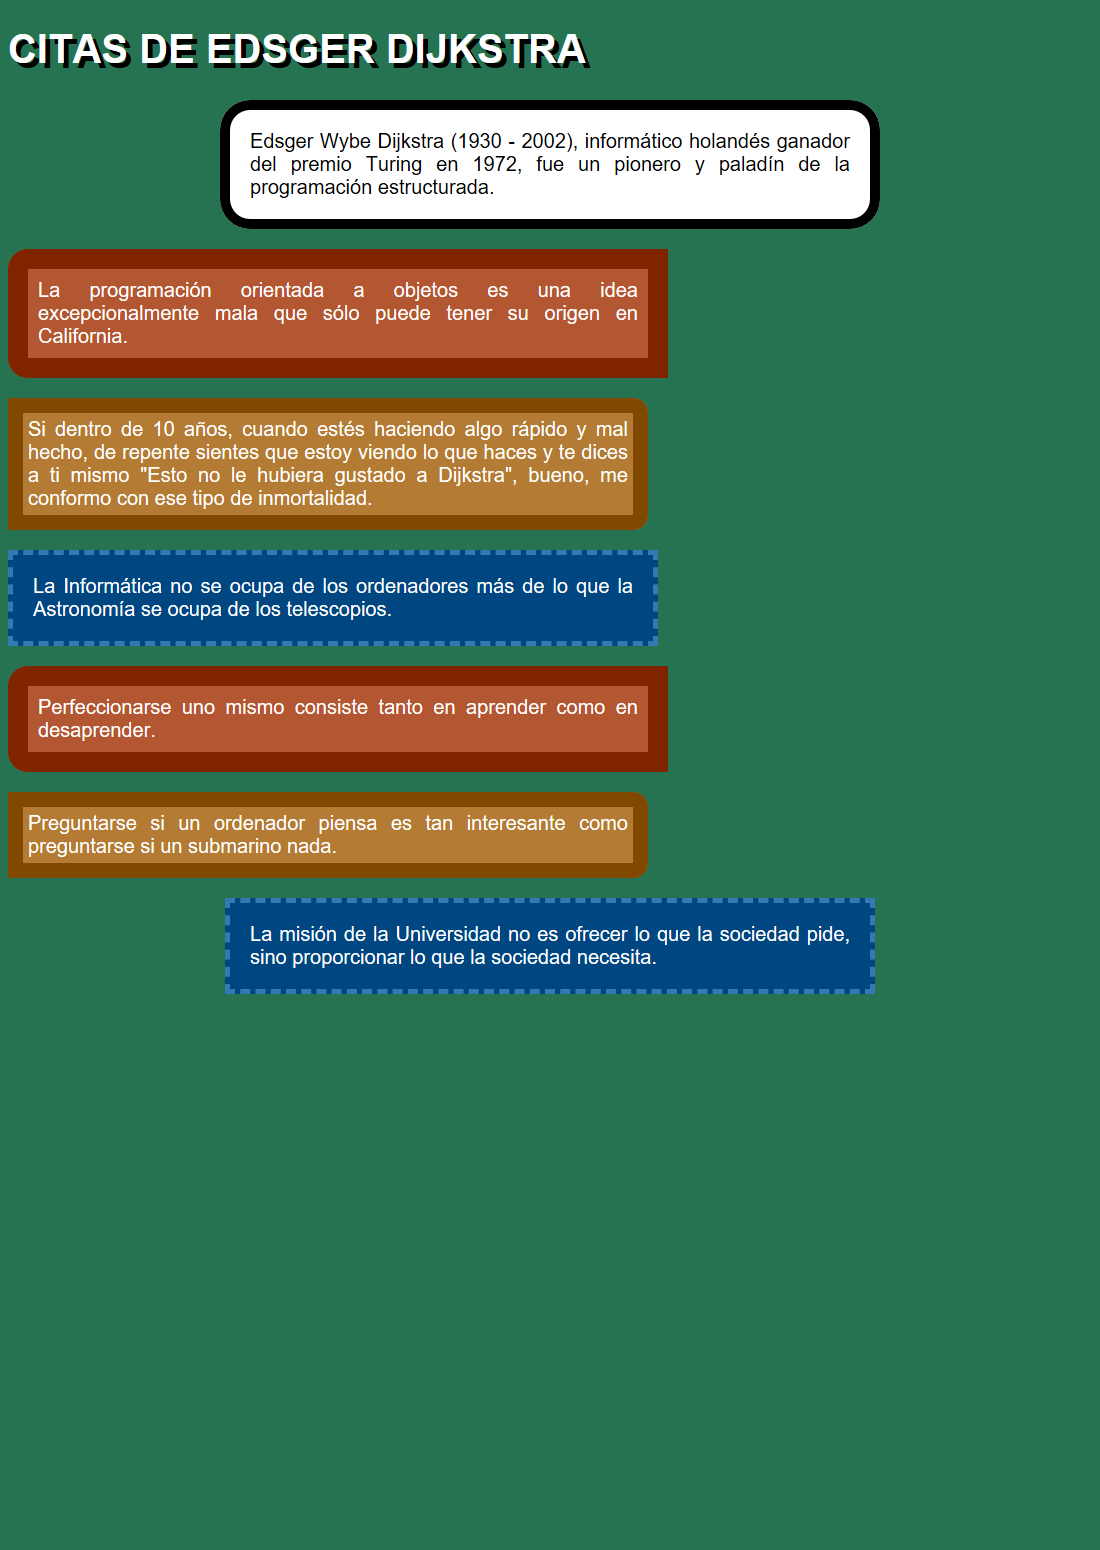
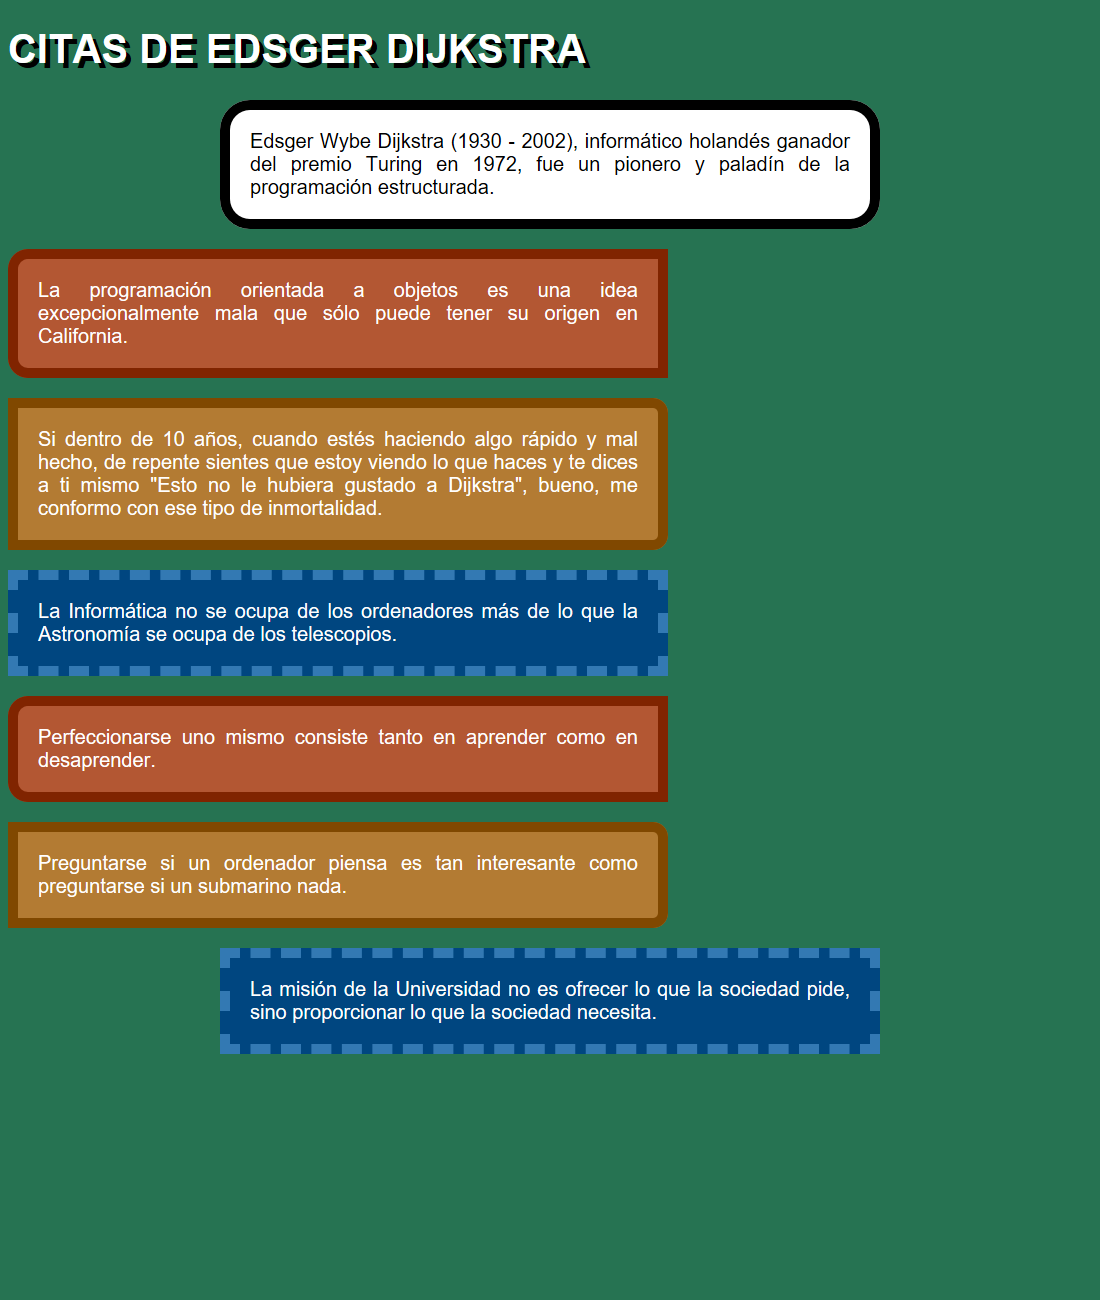
Unificar medidas y actualizar referencia de Dijkstra

diff --git a/README.md b/README.md
@@ -44,21 +44,21 @@ Archivo: **1-citas-dijkstra.html**. Crea **1-citas-dijkstra.css** y enlázalo.
 
 1. Usa un h1 para el título y un párrafo para cada texto de la plantilla.
 2. Pon un fondo verde y un título blanco, en mayúsculas, con sombra negra.
-3. Todas las cajas tendrán un ancho de contenido de 600 px. El padding y el borde se suman a ese ancho.
+3. Todas las cajas tendrán un ancho de contenido de 600 px, padding de 20 px y borde de 10 px. Su ancho exterior será de 660 px (600 + 40 de padding + 20 de borde). Puedes reunir estas propiedades en una clase común `caja`.
 4. Centra únicamente la introducción y la última cita con `margin: 20px auto`.
-5. Las cinco citas intermedias quedan alineadas a la izquierda, con `margin: 20px 0`.
+5. Las cinco citas intermedias quedan alineadas a la izquierda, con `margin: 20px 0`. Al compartir ancho, padding y grosor de borde, sus bordes izquierdos y derechos quedan alineados.
 6. Reproduce los tres estilos de cita: borde marrón con esquinas izquierdas redondeadas, borde naranja con esquinas derechas redondeadas y borde azul discontinuo.
 
 ### Valores y colores
 
 | Clase sugerida | Fondo | Texto | Borde | Padding |
 | --- | --- | --- | --- | --- |
-| Introducción | `#ffffff` | `#000000` | 10 px sólido `#000000`, radio 30 px | 20 px |
-| Cita marrón | `#b35733` | `#ffffff` | 20 px sólido `#802400`, radios izquierdos 20 px | 10 px |
-| Cita naranja | `#b37b33` | `#ffffff` | 15 px sólido `#804800`, radios derechos 15 px | 5 px |
-| Cita azul | `#004680` | `#ffffff` | 5 px discontinuo `#3379b3` | 20 px |
+| `introduccion` | `#ffffff` | `#000000` | 10 px sólido `#000000`, radio 30 px | 20 px |
+| `estilo-1` | `#b35733` | `#ffffff` | 10 px sólido `#802400`, radios izquierdos 20 px | 20 px |
+| `estilo-2` | `#b37b33` | `#ffffff` | 10 px sólido `#804800`, radios derechos 15 px | 20 px |
+| `estilo-3` | `#004680` | `#ffffff` | 10 px discontinuo `#3379b3` | 20 px |
 
-Fondo de página: `#267352`. Fuente: Arial o sans-serif, 20 px. Título: 40 px, sombra negra desplazada 5 px en horizontal y vertical. Conserva el orden de los textos; aplica los estilos marrón, naranja y azul y repite esa secuencia. La última cita utiliza el estilo azul y queda centrada.
+Fondo de página: `#267352`. Fuente: Arial o sans-serif, 20 px. Título: 40 px, sombra negra desplazada 5 px en horizontal y vertical. Conserva el orden de los textos; aplica las clases `estilo-1`, `estilo-2` y `estilo-3` y repite esa secuencia. La última cita utiliza `estilo-3` y queda centrada. Los colores, los radios y el tipo de borde distinguen cada estilo; el ancho, el padding y el grosor del borde son iguales en todas las cajas.
 
 ## Ejercicio 2. Citas de Chesterton
 
